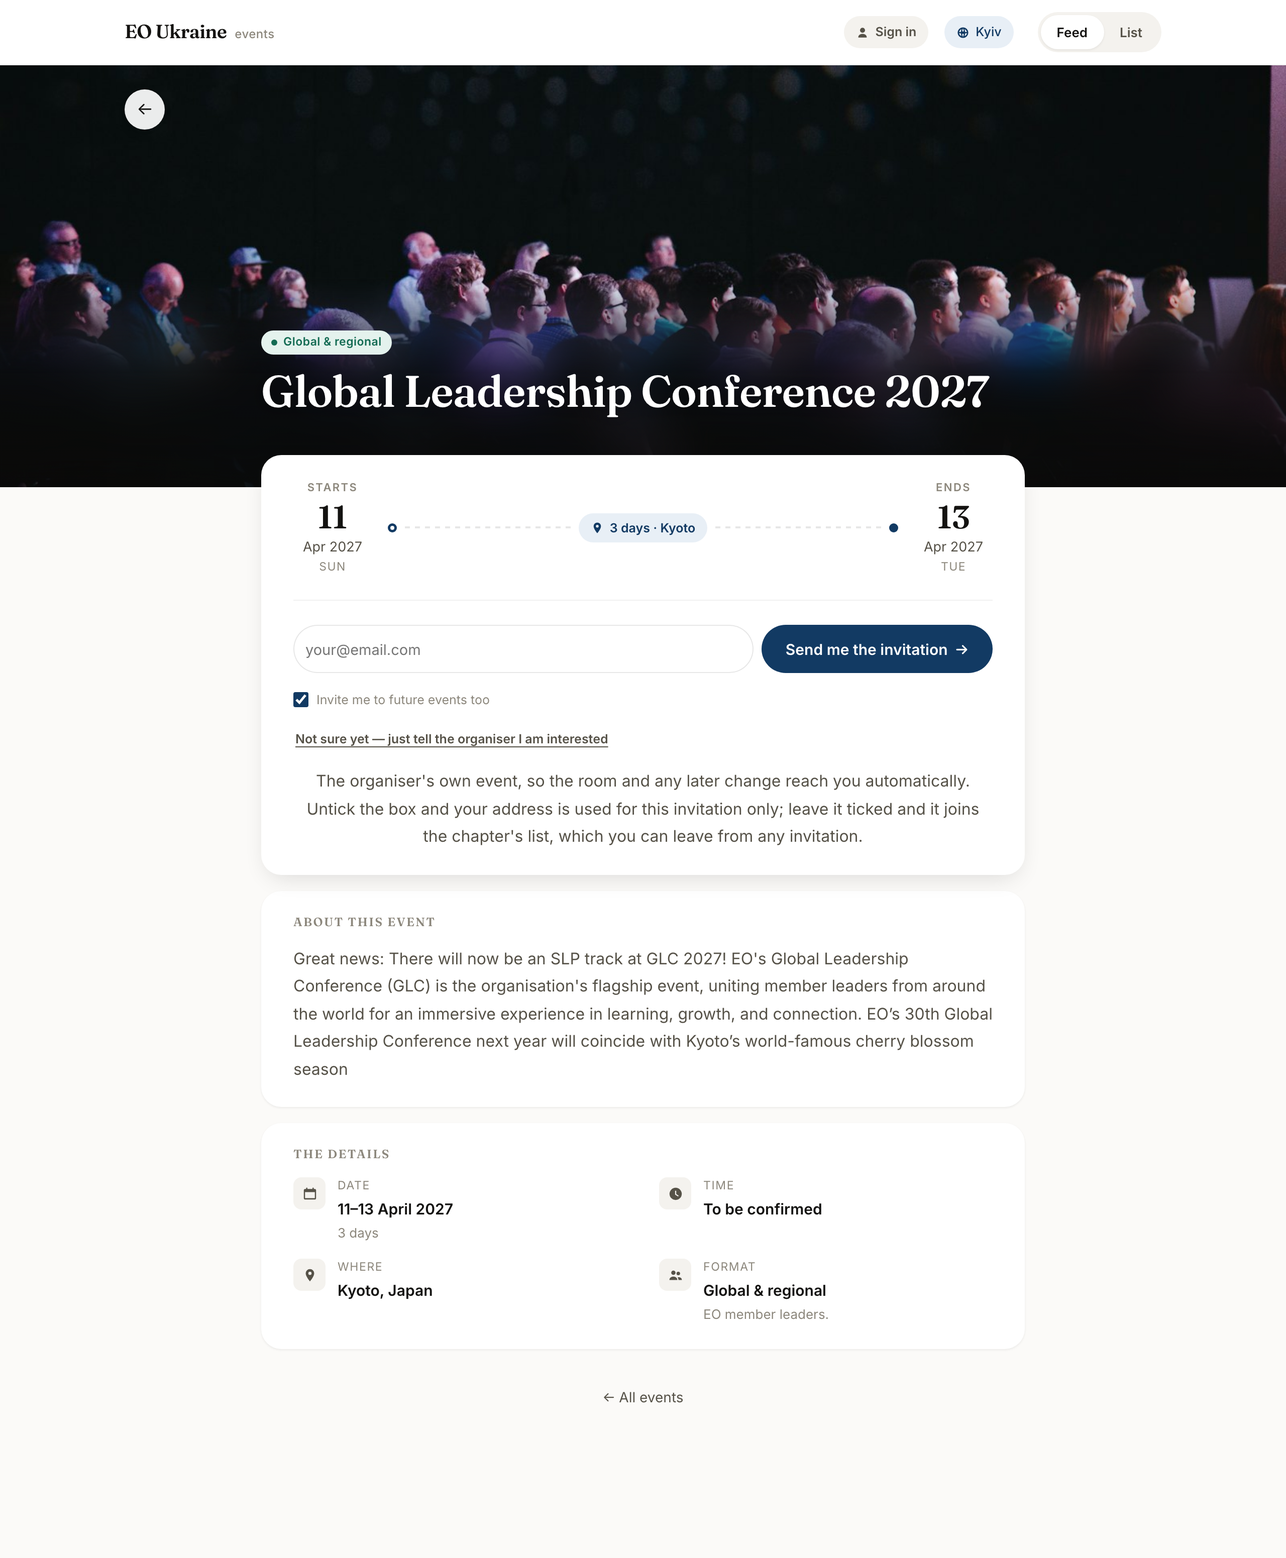
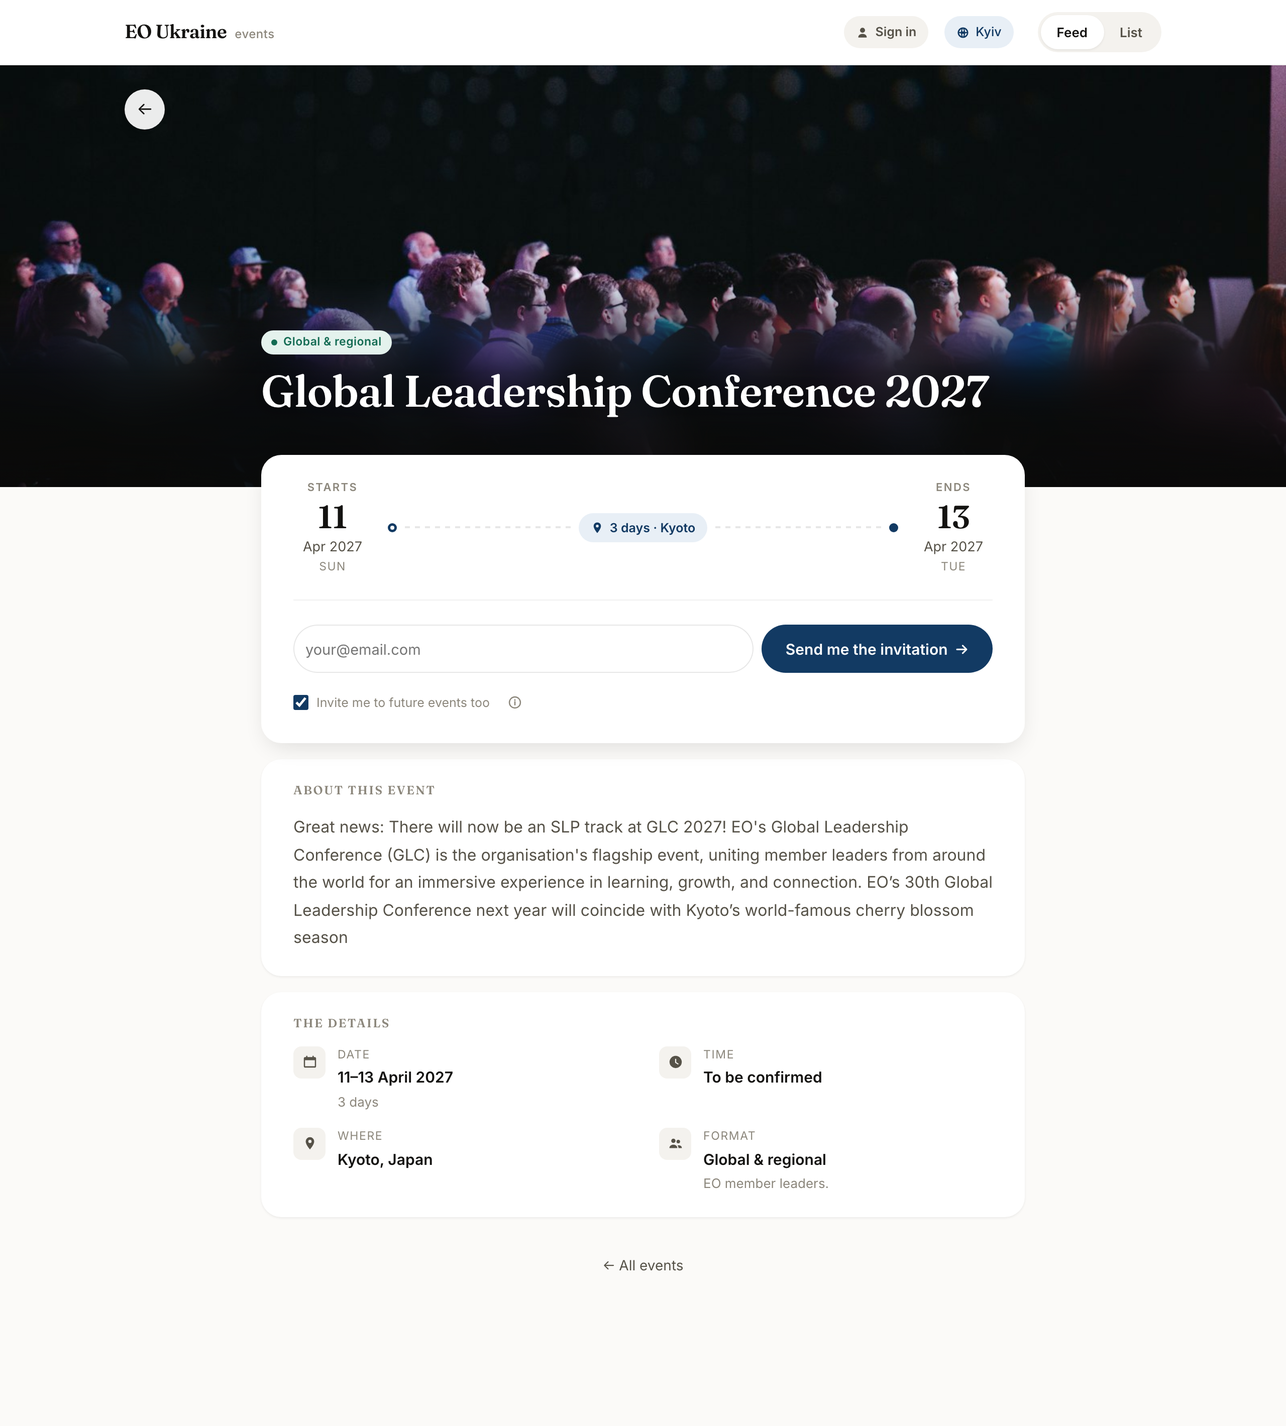
Invite the interested when the event is published; fold the paragraphs away
Three things.

**The loop was not closed.** Somebody registers interest on an event with no
date; the date is set; the row goes Published; the script creates the calendar
event — and invited the default guests and nobody else. Their answer was
collected and then thrown away, which is worse than never asking. createEvent_
now builds its guest list from three sources: the organisers, the recovery list
from an event that no longer exists, and `Interested Emails`. The hourly sweep
also picks up anyone added to that column after the event was built, which is
what happens when a secretary is told about somebody in person.

**"Not sure yet — just tell the organiser I am interested" is gone from
scheduled events.** It was a choice nobody asked for: the event has a date, the
invitation is one press, and offering a quieter alternative directly underneath
is a worse version of the thing above it. On a dated event there is nothing to
be unsure about that being invited does not already cover. Register interest now
exists in exactly one place — events with no date, where there is no calendar
event to join and no diary entry to make, and it is the only thing left that is
true.

**Every explanatory paragraph is now behind a circled "i".** All of them were
true and none of them were read; three lines of grey type between the button and
the rest of the page is something to step over every time. The words are
unchanged and attached to the control they are about — the checkbox, the label
[…]

diff --git a/public/src/pages/EventPage.js b/public/src/pages/EventPage.js
@@ -12,7 +12,7 @@
  * question; a member who only wants the date never has to read the paragraphs.
  */
 import { useEventsApi } from '../api/useEventsApi.js';
-import { chip, register, action, icon } from '../components/ui.js';
+import { chip, register, action, icon, info } from '../components/ui.js';
 import { richText } from '../richtext.js';
 import { vevent, googleUrl } from '../ics.js';
 
@@ -180,12 +180,9 @@ const addToCalendar = (ev) => {
                placeholder="your@email.com" aria-label="Your email address" />
         <button type="submit" class="addcal-btn primary">Send it to me</button>
         <label class="attend-opt"><input type="checkbox" name="subscribe" checked />
-          Invite me to future events too</label>
+          Invite me to future events too${info(INVITATION)}</label>
       </form>
-      <span class="addcal-note" data-attend-note>The organiser's own event, so the room and any
-        later change reach you automatically. Untick the box and your address is used for this
-        invitation only; leave it ticked and it joins the chapter's list, which you can leave
-        from any invitation.</span>
+      <span class="addcal-note" data-attend-note></span>
     </div>`;
   }
 
@@ -195,22 +192,23 @@ const addToCalendar = (ev) => {
   if (ev.calendar_url) {
     return `
     <div class="addcal">
-      <span class="addcal-label">${icon('cal')} Add to your calendar</span>
+      <span class="addcal-label">${icon('cal')} Add to your calendar${info(
+        'This is the organiser\'s own event rather than a copy of it, so any later change to '
+        + 'the room or the time reaches you automatically.')}</span>
       <a class="addcal-btn primary" href="${e(ev.calendar_url)}" target="_blank"
          rel="noopener">Open the calendar invitation</a>
-      <span class="addcal-note">This is the organiser's event, so any later change to the
-        room or the time reaches you automatically.</span>
     </div>`;
   }
 
   const g = googleUrl(ev, { origin: location.origin });
   return `
   <div class="addcal">
-    <span class="addcal-label">${icon('cal')} Add to your calendar</span>
+    <span class="addcal-label">${icon('cal')} Add to your calendar${info(
+      'This puts a COPY in your own calendar, so a later change by the organiser will not '
+      + 'reach it. To stay in step, subscribe to the whole calendar from the foot of the '
+      + 'events page.')}</span>
     <a class="addcal-btn" href="${e(g)}" target="_blank" rel="noopener">Google Calendar</a>
     <a class="addcal-btn" href="#" data-ics="${e(ev.id)}">Download&nbsp;.ics</a>
-    <span class="addcal-note">This puts a copy in your own calendar. To stay in step with
-      later changes, subscribe to the whole calendar from the foot of the events page.</span>
   </div>`;
 };
 
@@ -265,27 +263,20 @@ export function wireAttend() {
   });
 }
 
-/**
- * Register interest, from either place it is offered: its own form on an event that cannot be
- * joined, or the quiet second button under the invitation form.
- *
- * The two share one handler because they are one action with two entry points, and the only
- * difference is which field holds the address.
- */
+/** The interest form, on an event with no date. Nothing else on the site posts to it. */
 export function wireInterest() {
-  const own = document.querySelector('[data-interest-form]');
-  const alt = document.querySelector('[data-interest-alt]');
+  const form = document.querySelector('[data-interest-form]');
+  if (!form) return;
+  const note = document.querySelector('[data-interest-note]');
+  const button = form.querySelector('button[type=submit]');
 
-  const send = async (id, form, button, note) => {
+  form.addEventListener('submit', async (event) => {
+    event.preventDefault();
     const email = form.querySelector('input[type=email]').value.trim();
-    if (!email) {                       // the alt button bypasses the form's own validation
-      form.querySelector('input[type=email]').reportValidity();
-      return;
-    }
     button.disabled = true;
     const previous = button.innerHTML;
     button.textContent = 'One moment…';
-    const body = await requestInterest({ event: id, email,
+    const body = await requestInterest({ event: form.dataset.interestForm, email,
       subscribe: form.querySelector('[name=subscribe]')?.checked });
 
     setNote(note, body.ok, body.ok
@@ -302,19 +293,6 @@ export function wireInterest() {
       button.disabled = false;
       button.innerHTML = previous;
     }
-  };
-
-  own?.addEventListener('submit', (event) => {
-    event.preventDefault();
-    send(own.dataset.interestForm, own, own.querySelector('button[type=submit]'),
-         document.querySelector('[data-interest-note]'));
-  });
-
-  // Inside the invitation form: same address, different action. It must not submit the form,
-  // which is why it is a plain button and not a second submit.
-  alt?.addEventListener('click', () => {
-    const form = alt.closest('form');
-    send(alt.dataset.interestAlt, form, alt, document.querySelector('[data-attend-note]'));
   });
 }
 
@@ -389,25 +367,21 @@ function primaryAction(ev) {
         <button type="submit" class="register">Send me the invitation
           <span class="arr" aria-hidden="true">→</span></button>
         <label class="attend-opt"><input type="checkbox" name="subscribe" checked />
-          Invite me to future events too</label>
-        <button type="button" class="ask-no attend-alt" data-interest-alt="${e(ev.id)}">
-          Not sure yet — just tell the organiser I am interested</button>
+          Invite me to future events too${info(INVITATION)}</label>
       </form>
-      <p class="micro" data-attend-note>The organiser's own event, so the room and any later
-        change reach you automatically. Untick the box and your address is used for this
-        invitation only; leave it ticked and it joins the chapter's list, which you can leave
-        from any invitation.</p>`;
+      <p class="micro" data-attend-note></p>`;
   }
   return `
     <a class="register" href="${e(googleUrl(ev, { origin: location.origin }))}"
        target="_blank" rel="noopener">Add to Google Calendar
        <span class="arr" aria-hidden="true">→</span></a>
     <p class="micro">Or <a href="#" data-ics="${e(ev.id)}">download the .ics file</a> for Apple
-      Calendar, Outlook and everything else.</p>
-    ${interestForm(ev, 'This one has no registration page yet. Leave your address and the '
-      + 'organiser will come back to you — nothing goes in your calendar and no invitation is '
-      + 'sent.')}`;
+      Calendar, Outlook and everything else.</p>`;
 }
+
+const INVITATION = "The organiser's own event, so the room and any later change reach you "
+  + 'automatically. Untick the box and your address is used for this invitation only; leave '
+  + "it ticked and it joins the chapter's list, which you can leave from any invitation.";
 
 const emailField = () => `
   <input type="email" name="email" required autocomplete="email"
@@ -415,11 +389,17 @@ const emailField = () => `
          placeholder="your@email.com" aria-label="Your email address" />`;
 
 /**
- * Register interest — a note to the organiser, and nothing else.
+ * Register interest. Offered on ONE kind of event: the ones with no date.
  *
- * Deliberately NOT an invitation: no calendar entry, no email, no guest list. It is the only
- * thing that is still true of an event whose date has not been set, and it is the honest
- * answer for somebody who wants to be counted without a diary entry. See lib/interest.mjs.
+ * It was briefly offered on scheduled events too, as a second button under the invitation
+ * form. That was a choice nobody had asked for — the event has a date, the invitation is one
+ * press, and "or, alternatively, tell us quietly" is a worse version of the thing directly
+ * above it. On a dated event there is nothing to be unsure about that being invited does not
+ * already cover.
+ *
+ * Where it does belong there is no alternative at all: no date means no calendar event, so
+ * nothing can be joined and nothing can go in a diary. This is the only thing left that is
+ * true. See lib/interest.mjs.
  */
 const interestForm = (ev, note) => `
   <form class="attend wide interest" data-interest-form="${e(ev.id)}">
@@ -427,9 +407,9 @@ const interestForm = (ev, note) => `
     <button type="submit" class="register">Register interest
       <span class="arr" aria-hidden="true">→</span></button>
     <label class="attend-opt"><input type="checkbox" name="subscribe" checked />
-      Tell me about other events too</label>
+      Tell me about other events too${info(note)}</label>
   </form>
-  <p class="micro" data-interest-note>${e(note)}</p>`;
+  <p class="micro" data-interest-note></p>`;
 
 export function render({ ev, partial }) {
   const cta = primaryAction(ev);

diff --git a/public/assets/css/components.css b/public/assets/css/components.css
@@ -387,7 +387,8 @@
   border-radius:var(--r-lg);box-shadow:var(--e1)}
 .subscribe div{flex:1;min-width:240px}
 .subscribe b{display:block;font-family:var(--font-display);font-size:17px;font-weight:600}
-.subscribe span{display:block;font-size:13.5px;color:var(--ink-3);margin-top:3px;max-width:52ch}
+.subscribe-say > span{display:block;font-size:13.5px;color:var(--ink-3);margin-top:3px;
+  max-width:52ch}
 .addcal-btn.primary{background:var(--accent-soft);color:var(--accent);font-weight:600}
 .addcal-btn.primary:hover{background:var(--accent);color:var(--accent-ink)}
 .attend{display:flex;gap:var(--sp-2);align-items:center;flex-wrap:wrap}
@@ -556,8 +557,54 @@
   .me-pop{width:min(290px,calc(100vw - 32px))}
 }
 
-/* The quiet second action inside the invitation form: same address, different outcome. It has
-   to read as a real choice and plainly not the main one — a second filled button beside
-   "Send me the invitation" would make the two look interchangeable, which they are not. */
-.attend-alt{grid-column:1/-1;justify-self:start;text-align:left}
 .attend.interest .register{white-space:nowrap}
+
+/* ---- the "i" ---------------------------------------------------------- */
+/* Every form here used to carry a paragraph under it. All of them were true and none of them
+   were read. The words are the same; they are now one press away, attached to the control
+   they are about rather than sitting between the reader and the next thing on the page.
+
+   Shown by CSS on hover and on :focus-visible, so it works with no script at all and a
+   keyboard gets it for free. main.js adds `.open` for a tap. */
+/* `span.info-wrap` rather than `.info-wrap`: this is dropped inside labels and sentences all
+   over the site, several of which style their own spans as blocks. A bare class loses to
+   `.subscribe span`, and the icon drops onto a line of its own. */
+span.info-wrap{position:relative;display:inline-flex;vertical-align:middle;margin-left:4px}
+.info{display:grid;place-items:center;width:24px;height:24px;flex:none;
+  color:var(--ink-3);border-radius:50%;transition:color .15s ease,background .15s ease}
+.info svg{width:15px;height:15px}
+.info:hover{color:var(--accent);background:var(--accent-soft)}
+.info:focus-visible{outline:2px solid var(--accent);outline-offset:1px}
+.info-wrap.open .info{color:var(--accent);background:var(--accent-soft)}
+
+.info-pop{position:absolute;bottom:calc(100% + 9px);left:50%;transform:translateX(-50%);
+  z-index:90;width:max-content;max-width:min(280px,calc(100vw - 32px));
+  background:var(--ink);color:#fff;border-radius:var(--r-sm);padding:10px 12px;
+  font-size:12.5px;line-height:1.5;font-weight:400;text-align:left;letter-spacing:0;
+  text-transform:none;box-shadow:var(--e3);
+  opacity:0;visibility:hidden;transition:opacity .15s ease,visibility .15s}
+/* The stem. Purely decorative, and it must never widen the bubble. */
+.info-pop::after{content:'';position:absolute;top:100%;left:50%;margin-left:-5px;
+  border:5px solid transparent;border-top-color:var(--ink)}
+.info-wrap:hover .info-pop,
+.info:focus-visible ~ .info-pop,
+.info-wrap.open .info-pop{opacity:1;visibility:visible}
+
+/* On a phone the bubble would hang off the edge wherever the icon happens to sit, and no
+   amount of CSS can measure that. So it stops being a tooltip and becomes a sheet at the
+   foot of the screen — always fully on screen, always readable, and dismissed by a tap. */
+@media (max-width:560px){
+  .info-pop{position:fixed;inset:auto 12px 12px 12px;width:auto;max-width:none;
+    transform:none;padding:14px;font-size:13.5px;border-radius:var(--r)}
+  /* Clear of the event page's sticky action bar, which is the one thing a sheet at the foot
+     of the screen would otherwise sit under — and the bar is exactly where a reader's thumb
+     already is. */
+  .ev .info-pop{bottom:80px}
+  .info-pop::after{display:none}
+  .info-wrap:hover .info-pop{opacity:0;visibility:hidden}     /* a tap is not a hover */
+  .info-wrap.open .info-pop{opacity:1;visibility:visible}
+}
+
+/* The notes are now empty until a form has something to report, so they must not reserve
+   space when there is nothing in them. */
+.addcal-note:empty, .micro:empty, .subscribe-note:empty{display:none}

diff --git a/public/src/components/ui.js b/public/src/components/ui.js
@@ -8,6 +8,7 @@ const P = {
   video: 'M2 4.5A1.5 1.5 0 0 1 3.5 3h5A1.5 1.5 0 0 1 10 4.5v7A1.5 1.5 0 0 1 8.5 13h-5A1.5 1.5 0 0 1 2 11.5v-7Zm9 2.2 3-1.7v6l-3-1.7v-2.6Z',
   clock: 'M8 1.5a6.5 6.5 0 1 0 0 13 6.5 6.5 0 0 0 0-13Zm.6 3.2v3.5l2.6 1.6-.6 1L7.4 8.8V4.7h1.2Z',
   cal:   'M4 1.5v1.3H3A1.5 1.5 0 0 0 1.5 4.3v8.2A1.5 1.5 0 0 0 3 14h10a1.5 1.5 0 0 0 1.5-1.5V4.3A1.5 1.5 0 0 0 13 2.8h-1V1.5h-1.3v1.3H5.3V1.5H4Zm-1.2 4.6h10.4v6.4H2.8V6.1Z',
+  info:  'M8 1.5a6.5 6.5 0 1 0 0 13 6.5 6.5 0 0 0 0-13Zm0 1.3a5.2 5.2 0 1 1 0 10.4 5.2 5.2 0 0 1 0-10.4Zm-.7 3.9h1.4V11H7.3V6.7Zm.7-2.2a.85.85 0 1 1 0 1.7.85.85 0 0 1 0-1.7Z',
   users: 'M5.6 7.6a2.3 2.3 0 1 0 0-4.6 2.3 2.3 0 0 0 0 4.6Zm5.2.4a1.9 1.9 0 1 0 0-3.8 1.9 1.9 0 0 0 0 3.8ZM1.4 13c0-2.2 1.9-3.5 4.2-3.5S9.8 10.8 9.8 13H1.4Zm9.8-2.9c1.8 0 3.4.9 3.4 2.9h-3.6c0-1.1-.4-2-1-2.7.4-.1.8-.2 1.2-.2Z',
 };
 export const icon = (name) =>
@@ -94,6 +95,33 @@ export const register = (href,
   <a class="register ${small ? 'sm' : ''} ${ghost ? 'ghost' : ''}" href="${e(href)}"
      ${internal ? '' : 'target="_blank" rel="noopener"'}>
     ${e(label)} <span class="arr" aria-hidden="true">→</span></a>`;
+
+/**
+ * The "i" — an explanation, folded away until somebody wants it.
+ * Vue: components/eo/InfoTip.vue
+ *
+ * Every form on this site used to carry a paragraph under it explaining what pressing the
+ * button would do. All of them were true and none of them were read: a member who has decided
+ * to come is looking at the field and the button, and three lines of grey type between them
+ * and the next thing on the page is noise they have to step over every time.
+ *
+ * So the paragraph goes behind the icon, attached to the exact control it is about. Hover or
+ * focus on a desktop, one tap on a phone. Nothing is lost — it is the same words, one press
+ * away, next to the thing they describe rather than below the whole form.
+ *
+ * The tooltip is a SIBLING and shown by CSS, not built by script: there is no inline handler
+ * to fall foul of the Content-Security-Policy, it works before any JavaScript has run, and a
+ * keyboard gets it from `:focus-visible` for free. main.js adds the tap.
+ */
+let tips = 0;
+export const info = (text, label = 'What this means') => {
+  const id = `tip${++tips}`;
+  return `<span class="info-wrap">
+    <button type="button" class="info" aria-label="${e(label)}" aria-expanded="false"
+            aria-describedby="${id}">${icon('info')}</button>
+    <span class="info-pop" id="${id}" role="tooltip">${e(text)}</span>
+  </span>`;
+};
 
 export const fact = (iconName, text) =>
   text ? `<span class="fact">${icon(iconName)}${e(text)}</span>` : '';

diff --git a/public/src/main.js b/public/src/main.js
@@ -236,6 +236,38 @@ document.addEventListener('click', (ev) => {
   navigate(parse());
 });
 
+/**
+ * The "i" bubbles. CSS already shows them on hover and on focus; this is the tap, which is
+ * the only case CSS cannot do — and the one that matters most, because a phone is where a
+ * paragraph under every form hurts most.
+ *
+ * One open at a time, and anything else closes it. A tooltip left behind on a page somebody
+ * has moved on from is litter.
+ */
+document.addEventListener('click', (ev) => {
+  const wrap = ev.target.closest('.info-wrap');
+  for (const open of document.querySelectorAll('.info-wrap.open')) {
+    if (open === wrap) continue;
+    open.classList.remove('open');
+    open.querySelector('.info')?.setAttribute('aria-expanded', 'false');
+  }
+  if (!wrap || !ev.target.closest('.info')) return;
+  ev.preventDefault();
+  // The label around a checkbox would otherwise tick it: the icon sits INSIDE that label,
+  // because it is explaining that checkbox and belongs beside it.
+  ev.stopPropagation();
+  const on = wrap.classList.toggle('open');
+  wrap.querySelector('.info').setAttribute('aria-expanded', String(on));
+});
+
+document.addEventListener('keydown', (ev) => {
+  if (ev.key !== 'Escape') return;
+  for (const open of document.querySelectorAll('.info-wrap.open')) {
+    open.classList.remove('open');
+    open.querySelector('.info')?.setAttribute('aria-expanded', 'false');
+  }
+});
+
 // A table row is a link; making the whole row clickable is the difference between a table
 // you can use on a phone and one you cannot.
 document.addEventListener('click', (ev) => {

diff --git a/public/src/pages/FeedPage.js b/public/src/pages/FeedPage.js
@@ -13,7 +13,7 @@
 import { useEventsApi } from '../api/useEventsApi.js';
 import * as EventCard from '../components/EventCard.js';
 import * as Timeline from '../components/Timeline.js';
-import { chip, action } from '../components/ui.js';
+import { chip, action, info } from '../components/ui.js';
 import { escape as e, monthYear, placeLabel, displayDate } from '../format.js';
 import { savedEmail, savedName, maybeAsk } from '../identity.js';
 import { requestSubscription } from '../api/attend.js';
@@ -195,9 +195,11 @@ export function render({ events, tbc, q, counts, facets }) {
   <div class="subscribe">
     <div class="subscribe-say">
       <b>Never miss an event</b>
-      <span>Give us your address and you will be invited to each new event as it is announced —
-        straight into your calendar, with the room and any later change. Leave whenever you
-        like; every invitation carries the way out.</span>
+      <span>Be invited to each new event.${info(
+        'As soon as one is announced, the invitation goes straight into your calendar, with '
+        + 'the room and any later change '
+        + 'the organiser makes. Leave whenever you like — every invitation carries the way '
+        + 'out, and you can also unsubscribe from the link in any of them.')}</span>
     </div>
     <form class="subscribe-form" data-subscribe>
       <input type="text" name="name" autocomplete="name" placeholder="Your name"

diff --git a/docs/DESIGN.md b/docs/DESIGN.md
@@ -124,3 +124,25 @@ placeholder per event; the real sheet needs the column.
 Two more worth adding, in order of value: **`Year`** (removes every inference above), and
 **`Image`** (a cover per event — until then each card gets a deterministic gradient keyed by
 its own id, so an event always looks the same and a new one never looks broken).
+
+## 5. Explanations live behind the "i"
+
+Every form on the site had a paragraph under it saying what pressing the button would do. All
+of them were true. None of them were read: a member who has decided to come is looking at the
+field and the button, and three lines of grey type between them and the rest of the page is
+something to step over, every time, forever.
+
+So the paragraph moved into a tooltip on a small circled **i**, attached to the exact control
+it is about — the checkbox, the label above the buttons — rather than sitting under the whole
+form. Hover or keyboard focus on a desktop; one tap on a phone, where it opens as a sheet at
+the foot of the screen because no CSS can tell whether an anchored bubble would hang off the
+edge. Nothing was cut. It is the same words, one press away, next to the thing they describe.
+
+The note element stays where the paragraph was, but empty — it is where the form writes its
+answer afterwards, and an empty one takes up no space.
+
+**What did NOT go behind an "i".** An explanation folds away; an action never does. "Or
+download the .ics file", "Prefer to subscribe the calendar itself? Take the feed" and "Opens
+the EO registration page. Takes about a minute" all stay in the open — the first two are
+things to press, and the third is one short line of reassurance directly under the button it
+is about.
